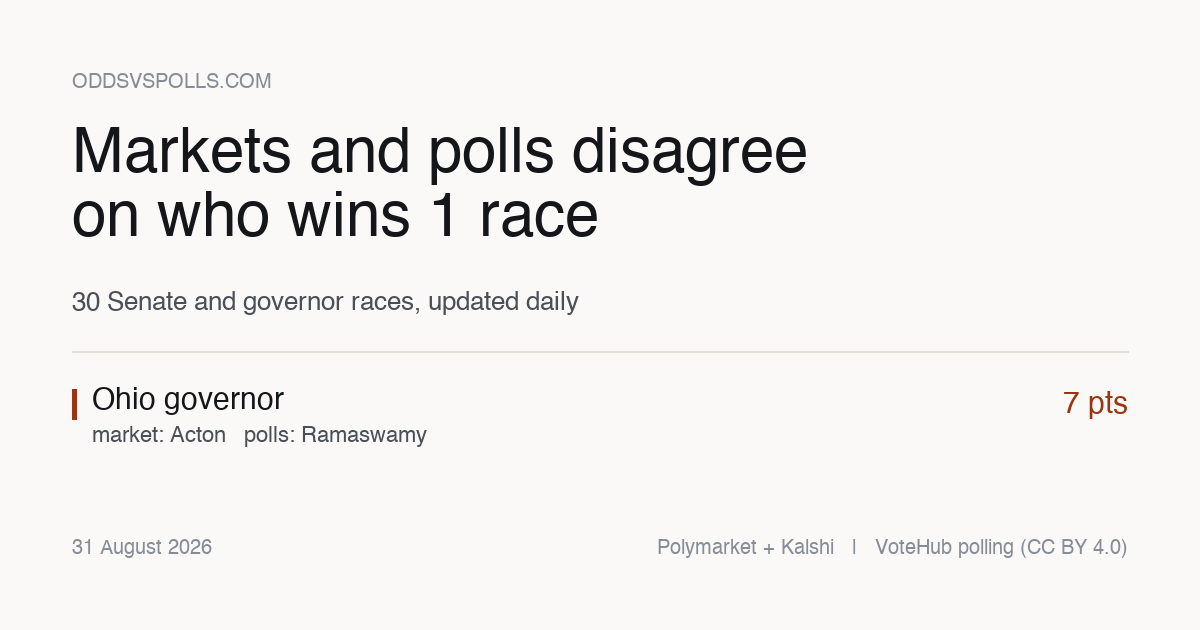
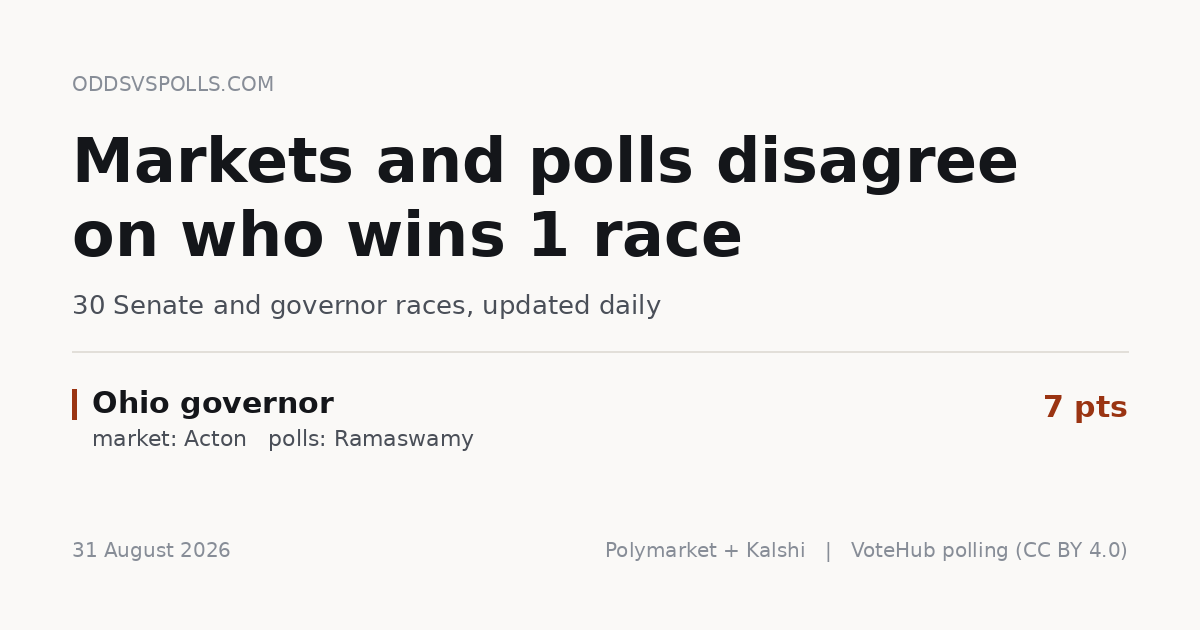
Add weekly config drift check

diff --git a/analysis/check_drift.py b/analysis/check_drift.py
@@ -64,6 +64,21 @@ MATCH_THRESHOLD = 0.5
 # Venue prices further apart than this are a data problem, not a trade.
 VENUE_GAP = 5.0
 
+# Races knowingly missing a market on one venue. Without this the check
+# reports the same non-problem every week, and a report that always
+# contains the same items is one nobody reads. Remove an entry when the
+# venue lists the race, which rerunning the mappers will reveal.
+KNOWN_GAPS = {
+    "2026-gov-NH": "Kalshi lists only the 2028 New Hampshire governor "
+                   "contract; the 2026 race is Polymarket-only",
+    "2026-senate-NE": "no Kalshi ticker mapped",
+    # The mapper only walks state races, so chamber control was never
+    # offered a Kalshi ticker even though KXSENATE and KXHOUSE exist. Worth
+    # mapping by hand rather than reporting weekly.
+    "2026-senate-control": "mapper covers state races only; KXSENATE exists",
+    "2026-house-control": "mapper covers state races only; KXHOUSE exists",
+}
+
 
 class Findings:
     def __init__(self):
@@ -150,9 +165,13 @@ def check_markets(findings):
 
         slug = race.get("polymarket_slug")
         if slug:
-            payload = get_json_abs(
+            payload, err = get_json_abs(
                 "https://gamma-api.polymarket.com/markets", {"slug": slug})
-            if not payload:
+            if err:
+                findings.add("low", race_id, "Polymarket check failed",
+                             f"{err}; could not verify, not necessarily "
+                             f"a problem with the market")
+            elif not payload:
                 findings.add("high", race_id, "Polymarket market missing",
                              f"no market for slug {slug}")
             else:
@@ -170,11 +189,19 @@ def check_markets(findings):
                     prices["polymarket"] = float(raw[0])
 
         ticker = race.get("kalshi_ticker")
+        if not ticker and race_id not in KNOWN_GAPS:
+            findings.add("low", race_id, "no Kalshi market",
+                         "tracked on Polymarket only; rerun "
+                         "fetch_markets_kalshi.py --map-races to check")
         if ticker:
-            payload = get_json_abs(
+            payload, err = get_json_abs(
                 f"https://api.elections.kalshi.com/trade-api/v2/markets/{ticker}")
-            m = (payload or {}).get("market")
-            if not m:
+            m = (payload or {}).get("market") if payload else None
+            if err:
+                findings.add("low", race_id, "Kalshi check failed",
+                             f"{err}; could not verify, not necessarily "
+                             f"a problem with the market")
+            elif not m:
                 findings.add("high", race_id, "Kalshi market missing",
                              f"no market for ticker {ticker}")
             else:
@@ -196,46 +223,94 @@ def check_markets(findings):
                     f"market.")
 
 
+_last_request = [0.0]
+REQUEST_DELAY = 0.35
+
+
 def get_json_abs(url, params=None):
-    """get_json in the poll module is relative to the VoteHub base."""
+    """Fetch an absolute URL, distinguishing failure from absence.
+
+    Returns (payload, error). A throttled or timed-out request returns an
+    error string; a successful request that found nothing returns (None,
+    None). Collapsing those two into one value produced a false "Kalshi
+    market missing" on Arizona while the market was open and trading,
+    because this walks every race in quick succession and Kalshi
+    rate-limits it.
+
+    A check that reports problems which are not real is worse than no
+    check: it trains you to skim past the report, and the week it finds
+    something true you skim past that too.
+    """
     import json as _json
+    import time as _time
     from urllib.error import HTTPError, URLError
     from urllib.parse import quote
     from urllib.request import Request, urlopen
 
+    wait = REQUEST_DELAY - (_time.time() - _last_request[0])
+    if wait > 0:
+        _time.sleep(wait)
+    _last_request[0] = _time.time()
+
     params = params or {}
     query = "&".join(f"{k}={quote(str(v))}" for k, v in params.items())
     full = f"{url}?{query}" if query else url
-    try:
-        req = Request(full, headers={"User-Agent": "oddsvspolls.com drift check"})
-        with urlopen(req, timeout=30) as resp:
-            return _json.loads(resp.read().decode("utf-8"))
-    except (HTTPError, URLError, TimeoutError, _json.JSONDecodeError):
-        return None
+
+    for attempt in range(3):
+        try:
+            req = Request(full, headers={
+                "User-Agent": "oddsvspolls.com drift check "
+                              "(+https://oddsvspolls.com)"})
+            with urlopen(req, timeout=30) as resp:
+                return _json.loads(resp.read().decode("utf-8")), None
+        except HTTPError as exc:
+            if exc.code == 404:
+                return None, None          # genuinely absent
+            if exc.code in (429, 503) and attempt < 2:
+                _time.sleep(2 ** attempt)
+                continue
+            return None, f"HTTP {exc.code}"
+        except (URLError, TimeoutError, _json.JSONDecodeError) as exc:
+            if attempt < 2:
+                _time.sleep(2 ** attempt)
+                continue
+            return None, str(exc)[:60]
+    return None, "gave up after 3 attempts"
 
 
 def check_new_races(findings):
-    """Senate contests with polling that the config does not track."""
+    """Report races with polling that the config does not track.
+
+    Collapsed into a single finding rather than one per race. Most
+    untracked contests are safe seats left out on purpose, so listing each
+    one every week turns the report into wallpaper and buries the items
+    that need a decision. The count is what changes and is worth seeing;
+    the membership is a detail to open when the count moves.
+    """
     subjects = get_json("/subjects") or []
-    # Tracked as (subject, poll_type): Georgia appears for both offices, so
-    # the subject alone would wrongly mark the governor race as covered.
     tracked = {(subject, ptype) for subject, _, _, ptype in RACES.values()}
 
+    missing = []
     for s in subjects:
-        subject = s.get("subject")
-        types = s.get("poll_types") or []
-        for ptype in ("us-senator", "governor"):
-            if ptype in types and (subject, ptype) not in tracked:
-                break
-        else:
-            continue
-        if not str(subject).startswith("2026"):
+        subject = str(s.get("subject") or "")
+        if not subject.startswith("2026"):
             continue
         # Party-specific subjects are primaries, not races.
-        if any(w in str(subject) for w in ("Democratic", "Republican")):
+        if any(w in subject for w in ("Democratic", "Republican")):
             continue
-        findings.add("medium", f"{subject} / {ptype}", "untracked race",
-                     f"{subject} has {ptype} polling but is not in RACES")
+        for ptype in ("us-senator", "governor"):
+            if ptype in (s.get("poll_types") or []) \
+                    and (subject, ptype) not in tracked:
+                missing.append(f"{subject} ({ptype})")
+
+    if not missing:
+        return
+
+    listed = ", ".join(sorted(missing))
+    findings.add(
+        "low", f"{len(missing)} untracked races", "polled but not collected",
+        f"Mostly safe seats excluded on purpose. Add one to RACES in "
+        f"fetch_polls_votehub.py if it becomes competitive. {listed}")
 
 
 def report(findings, markdown=False):
